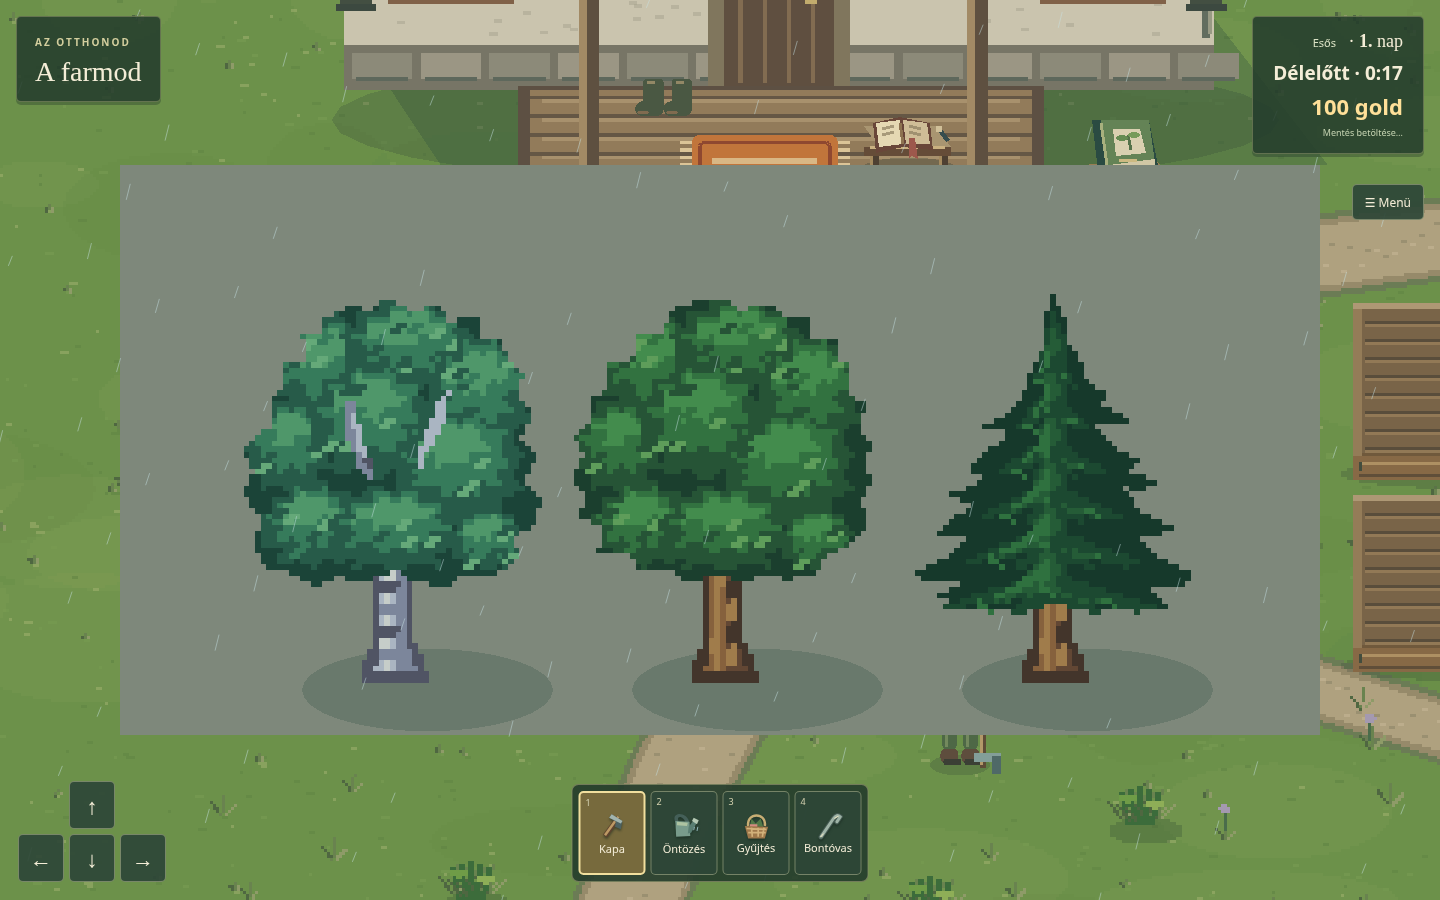
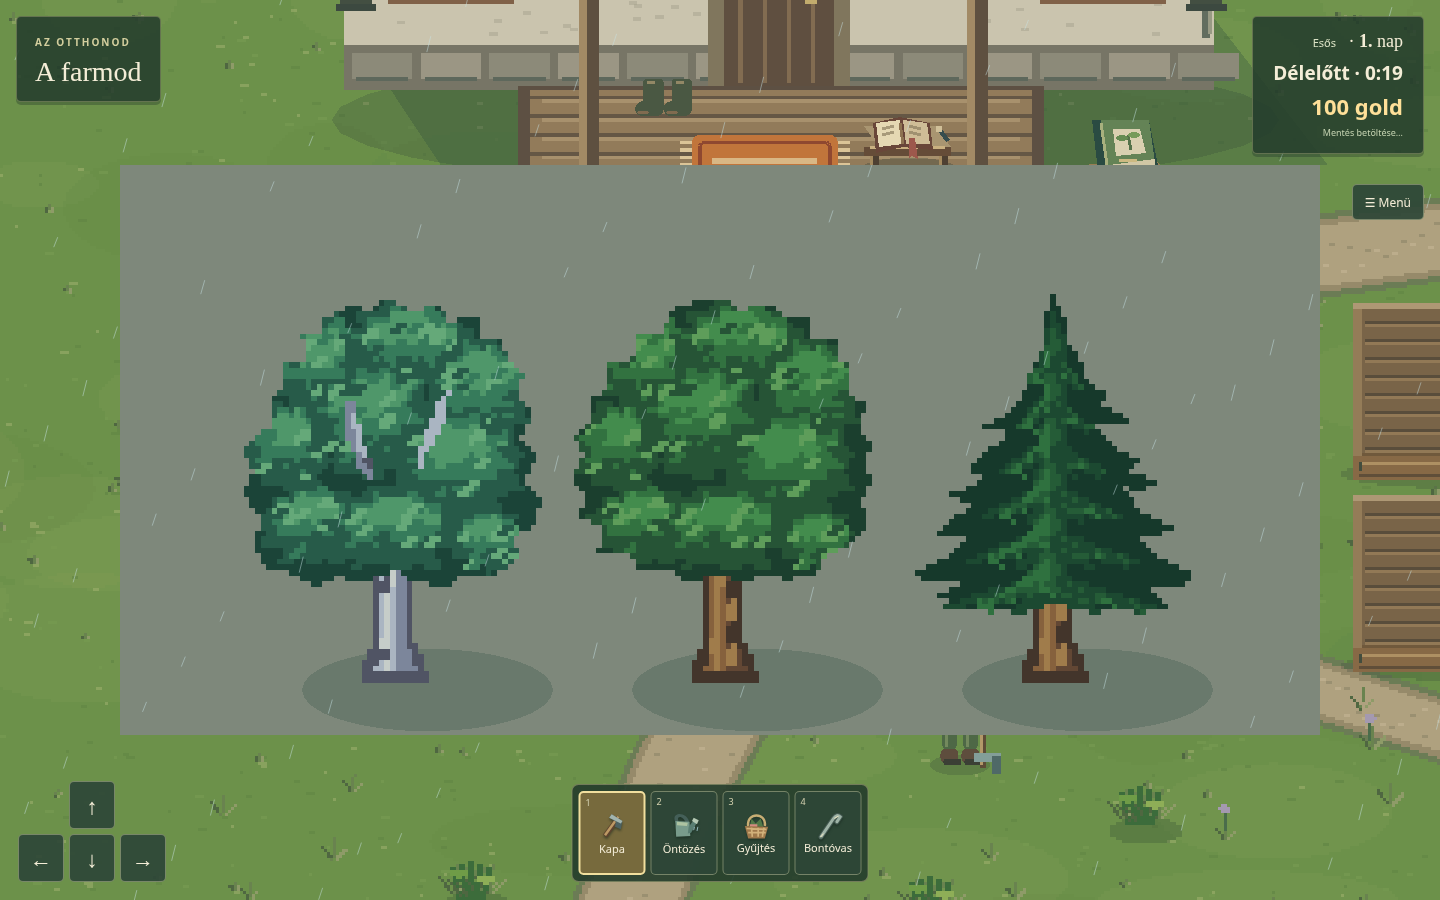
Refine leaf ridges, shaded folds and conifer needle groups

diff --git a/src/woodland-tree.ts b/src/woodland-tree.ts
@@ -31,7 +31,7 @@ export function drawWoodlandTree(g:Phaser.GameObjects.Graphics,random:()=>number
  }
  for(let i=0;i<7;i++){
   const yy=-3-i*6;
-  if(birch)shape([-4,yy,-1,yy-1,2,yy-1,3,yy+1,-3,yy+2],i%2?bark[0]:bark[1]);
+  if(birch){const side=i%3===0?-1:1,offset=i%2?1.5:0;shape([side*4,yy,side*1.5,yy-offset,side*.5,yy+1.5,side*4,yy+3],i%3===0?bark[0]:bark[1]);}
   else shape([1,yy,3,yy-3,4,yy-2,3,yy+3,1,yy+4],i%2?bark[0]:bark[3]);
  }
  const palette=kind===2?[0x123624,0x19492b,0x235f32,0x2e773b,0x428b49]:birch?[0x174333,0x255d47,0x37825b,0x53a36d,0x6cb77e]:[0x183d28,0x245631,0x32783c,0x45964b,0x64a95a];
@@ -44,6 +44,11 @@ export function drawWoodlandTree(g:Phaser.GameObjects.Graphics,random:()=>number
    shape(fan,palette[1]);
    shape([-1,cy-3,2,cy+3,0,cy+7,w*.65,cy+13,w*.25,cy+12,-1,cy+9,-w*.6,cy+13,-w*.3,cy+7],palette[2]);
    shape([-1,cy,0,cy+5,-w*.4,cy+10,-w*.6,cy+11,-w*.3,cy+7],palette[3]);
+   for(let j=0;j<5;j++){
+    const side=j%2?-1:1,xx=side*w*(.15+j*.12),yy=cy+7+j*.9;
+    shape([xx,yy,xx+side*3,yy+1.5,xx+side*5,yy+4.5,xx+side*1.5,yy+3,xx-side*1.5,yy],palette[2]);
+    shape([xx,yy,xx+side*1.5,yy+1.5,xx+side*3,yy+4.5,xx,yy+3],j%2?palette[3]:palette[1]);
+   }
    for(let j=0;j<8;j++){const xx=(j-3.5)*w*.18,yy=cy+6+Math.abs(j-3.5)*1.5;shape([xx,yy,xx+1.5,yy+1.5,xx+4,yy+4,xx+1.5,yy+3,xx-1.5,yy+1.5],j%3?palette[1]:palette[3]);}
   }
  }else{
@@ -56,12 +61,19 @@ export function drawWoodlandTree(g:Phaser.GameObjects.Graphics,random:()=>number
    [17,-53,18,16],[-22,-37,14,12],[0,-36,18,12],[25,-33,10,9]
   ];
   for(let k=0;k<patches.length;k++){
-   const [cx,cy,rx,ry]=patches[k],p=(coords:number[])=>coords.map((v,i)=>i%2?cy+v*ry:cx+v*rx);
+   const [cx,cy,rx,ry]=patches[k],p=(coords:number[])=>coords.map((v,i)=>i%2?cy+(v+Math.sin(i*2.3+k)*.055)*ry:cx+(v+Math.cos(i*1.7+k)*.055)*rx);
    // Irregular interlocking leaf fingers: no circular base or concentric highlight.
    shape(p([-.9,.15,-1,-.2,-.7,-.3,-.8,-.65,-.45,-.65,-.4,-.95,0,-.85,.25,-1,.45,-.7,.8,-.75,.75,-.4,1,-.2,.85,.15,1,.45,.65,.55,.7,.9,.3,.8,.1,1,-.2,.8,-.6,.9,-.55,.55,-.95,.5]),palette[1]);
    shape(p([-.85,-.15,-.55,-.25,-.65,-.55,-.3,-.5,-.25,-.8,.1,-.7,.3,-.85,.45,-.55,.75,-.55,.65,-.2,.85,0,.55,.1,.7,.35,.35,.3,.4,.6,.05,.4,-.15,.6,-.3,.3,-.65,.4,-.55,.05]),palette[2]);
    shape(p([-.55,-.45,-.3,-.45,-.2,-.7,.05,-.6,.25,-.7,.4,-.4,.6,-.4,.45,-.15,.2,-.2,.1,.05,-.1,-.05,-.35,.1,-.3,-.2,-.6,-.1]),palette[3]);
-   for(let j=0;j<8;j++){
+   // Short connected ridges split broad light planes into leafy edges.
+   for(let j=0;j<5;j++){
+    const xx=cx-rx*.62+j*rx*.28,yy=cy-ry*.36+Math.sin(j*1.8+k)*ry*.16;
+    shape([xx,yy,xx+1.5,yy-1.5,xx+4.5,yy-1.5,xx+3,yy,xx+4.5,yy+1.5,xx+1.5,yy+1.5,xx,yy+3,xx-1.5,yy+1.5],j%3?palette[3]:palette[4]);
+    const foldY=cy+ry*(.22+(j%2)*.14);
+    shape([xx,foldY,xx+3,foldY+1.5,xx+4.5,foldY,xx+6,foldY+1.5,xx+3,foldY+3,xx,foldY+1.5,xx-1.5,foldY+3,xx-3,foldY+1.5],palette[1]);
+   }
+   for(let j=0;j<10;j++){
     const a=hash(k*13+j,k+3),xx=cx-rx*.65+(a%13)/12*rx*1.3,yy=cy-ry*.55+((a>>>8)%11)/10*ry*1.1;
     shape([xx,yy,xx+3,yy,xx+3,yy+1.5,xx+1.5,yy+1.5,xx+1.5,yy+3,xx-1.5,yy+3,xx-1.5,yy+1.5,xx,yy+1.5],j%3===0?palette[4]:j%3===1?palette[1]:palette[2]);
    }

diff --git a/docs/qa/0.3.0-reference-tree-redraw.md b/docs/qa/0.3.0-reference-tree-redraw.md
@@ -8,3 +8,7 @@ Ellenőrzés: teljes Vitest és TypeScript/Vite build; elkülönített Chromium/
 
 - `production-three-trees-reference-comparison.png`
 - `production-woodland-refined-trees.png`
+
+## További részletfinomítás
+
+A felhasználó a mostani irány megtartásával újabb finomítást kért. A lombredők alakja enyhén változatosabb, rövid, összekapcsolódó levélfények és alsó árnyékhasítékok tagolják a szélesebb színmezőket. A fenyő ágai további tűlevélcsoportokat kaptak. A nyírtörzs szabályos gyűrűi helyett váltott oldali, szabálytalan kéregfoltok szerepelnek. A sziluett, a méret és a helyek változatlanok. A normál erdei és az egymás melletti összehasonlító kép frissül.
